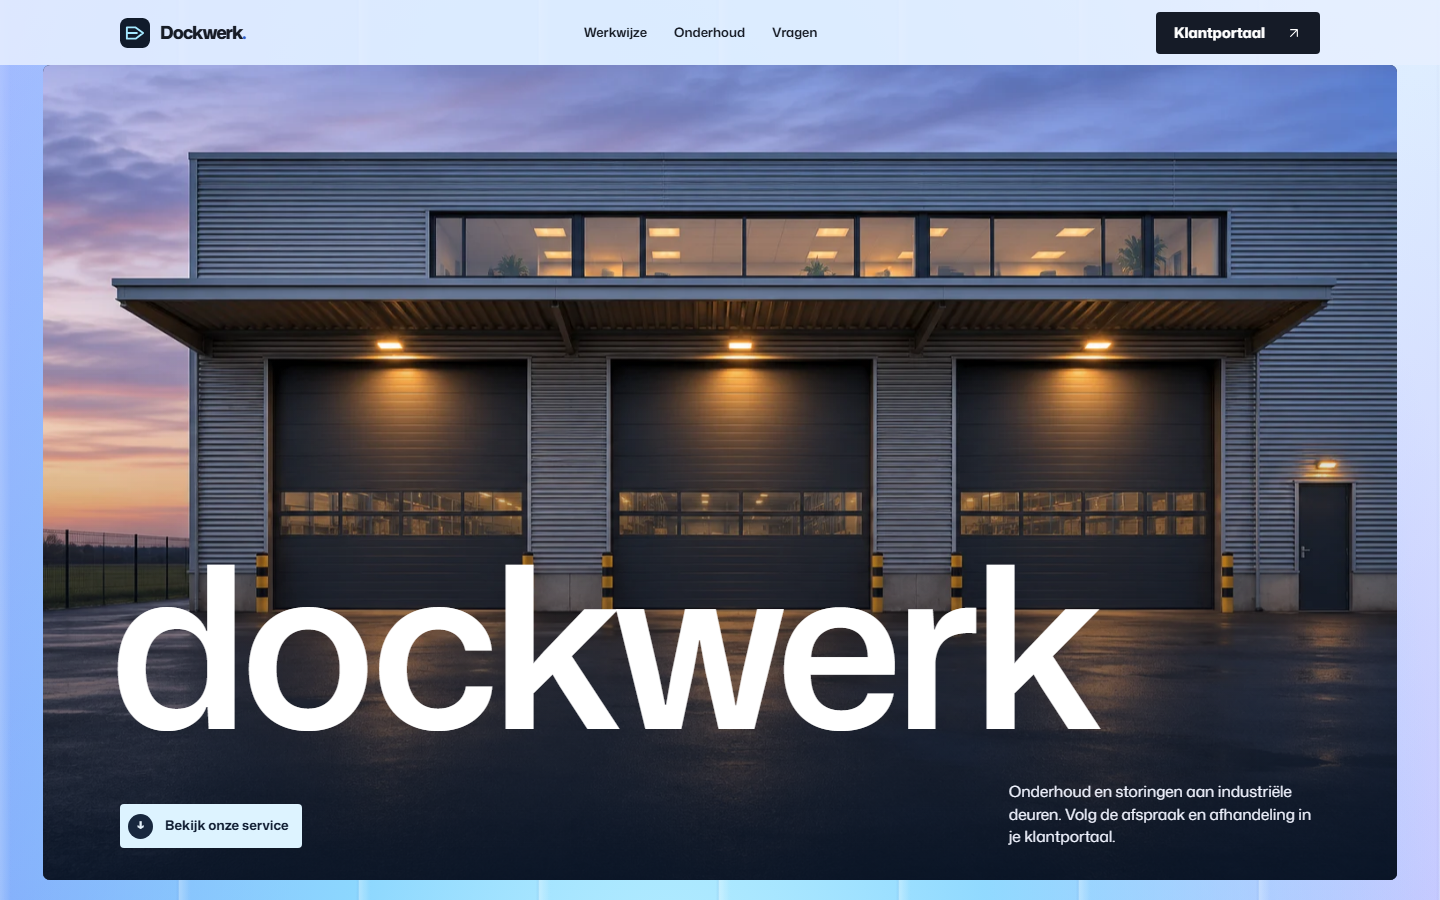
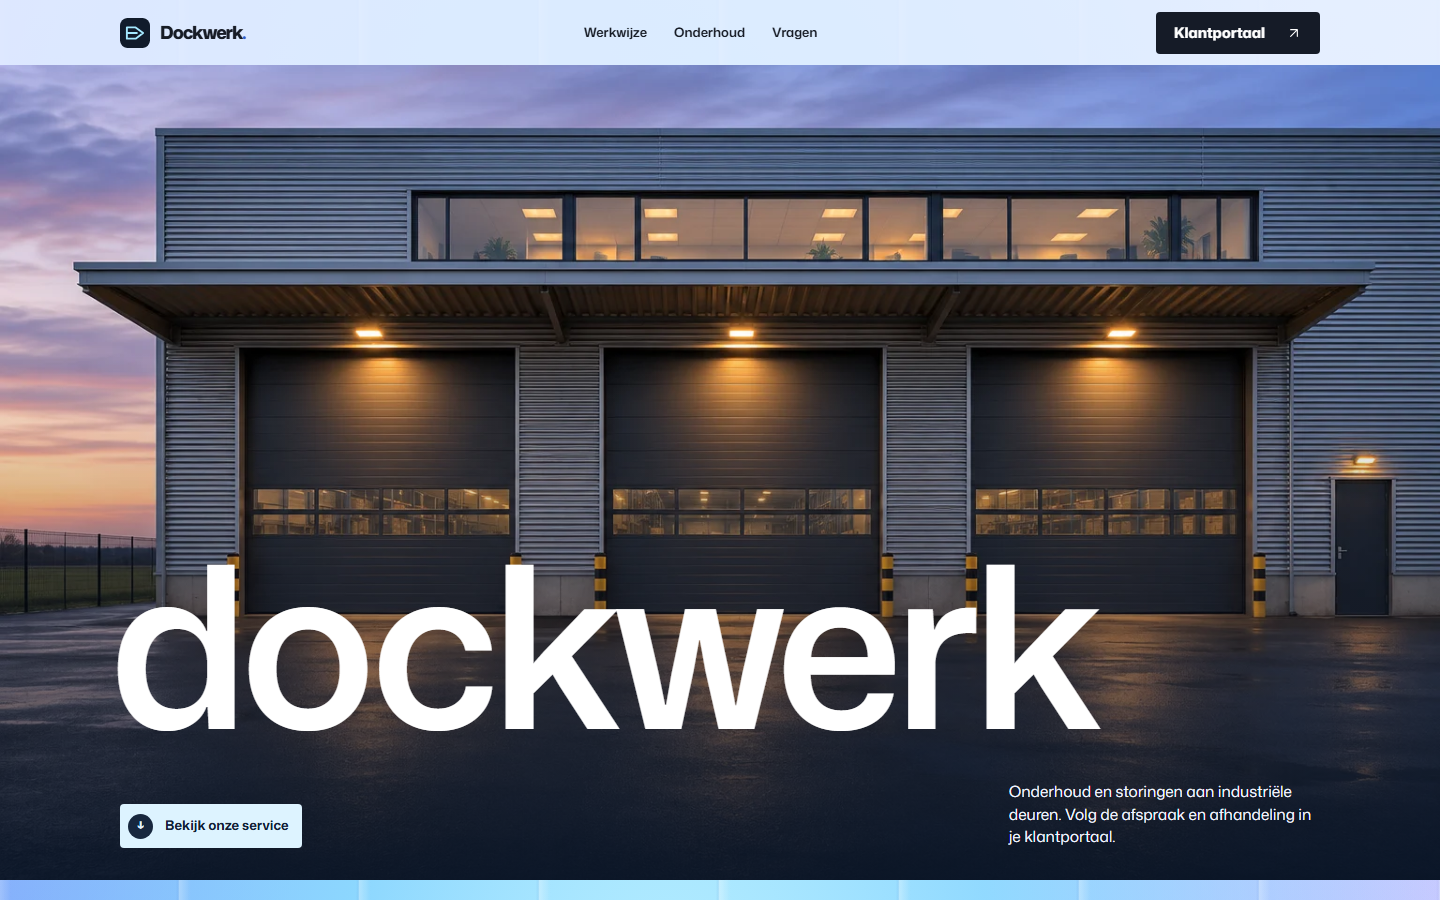
Extend the homepage cover edge to edge and add a lighting intro

diff --git a/tests/browser/portal.spec.js b/tests/browser/portal.spec.js
@@ -21,13 +21,16 @@ test('de homepage is bruikbaar met toetsenbord en op mobiel', async ({ page }) =
     await expect(page.locator('html')).not.toHaveClass(/lenis/);
     await page.evaluate(() => document.fonts.ready);
     expect(await page.evaluate(() => document.fonts.check('700 20px "Mona Sans"'))).toBe(true);
-    expect(await page.locator('.hero-photo').evaluate(image => image.complete && image.naturalWidth > 0)).toBe(true);
+    const cover = page.locator('.hero-photo');
+    expect(await cover.evaluate(image => image.complete && image.naturalWidth > 0)).toBe(true);
+    expect(await cover.boundingBox()).toMatchObject({ x: 0, width: 1440 });
     await page.locator('.service-pair').first().scrollIntoViewIfNeeded();
     await expect.poll(() => page.locator('.service-photo').first().evaluate(image => image.complete && image.naturalWidth > 0)).toBe(true);
     expect((await new AxeBuilder({ page }).withTags(['wcag2a', 'wcag2aa', 'wcag21aa']).analyze()).violations).toEqual([]);
     for (const width of [1024, 768, 390, 320, 390]) {
         await page.setViewportSize({ width, height: 844 });
         await expect.poll(() => page.evaluate(() => document.documentElement.scrollWidth)).toBe(width);
+        expect(await cover.boundingBox()).toMatchObject({ x: 0, width });
     }
     await page.locator('.mobile-menu summary').focus();
     await page.keyboard.press('Enter');
@@ -64,6 +67,13 @@ test('de homepage is bruikbaar met toetsenbord en op mobiel', async ({ page }) =
     await expect(page.getByText('Open de melding vanuit het overzicht.', { exact: false })).toBeVisible();
     await page.emulateMedia({ reducedMotion: 'reduce' });
     await expect.poll(coverShift).toBe(0);
+
+    await page.goto('/?intro=licht');
+    await expect(page.locator('.cover')).toHaveClass(/cover-lit/);
+    await expect(page.locator('.cover-shutter')).toHaveCount(0);
+    await expect(cover).toHaveCSS('filter', 'none');
+    expect(await cover.boundingBox()).toMatchObject({ x: 0, width: 1440 });
+    await expect(page.getByRole('link', { name: 'Bekijk onze service' })).toHaveAttribute('href', '#onderhoud');
 });
 
 test('van melding naar afspraak en afronding met gescheiden bedrijven', async ({ browser }) => {

diff --git a/resources/css/home.css b/resources/css/home.css
@@ -14,7 +14,7 @@
 .mode-home .nav-cta, .studio-primary, .closing-button { border-radius: 4px; gap: 21px; min-height: 40px; }
 .mode-home .nav-cta, .studio-primary { background: #151b27; color: white; }
 .mode-home .nav-cta:hover, .studio-primary:hover { background: #283f62; }
-.cover { margin-inline: clamp(12px, 3vw, 56px); border-radius: 7px; min-height: clamp(570px, calc(100svh - 85px), 940px); position: relative; isolation: isolate; overflow: clip; display: grid; align-items: end; background: #192a3d; color: white; }
+.cover { min-height: clamp(570px, calc(100svh - 85px), 940px); position: relative; isolation: isolate; overflow: clip; display: grid; align-items: end; background: #192a3d; color: white; }
 .cover-picture, .cover-picture img, .cover::after { position: absolute; inset: 0; display: block; width: 100%; height: 100%; }
 .cover-picture { z-index: -2; }
 .cover-picture img { object-fit: cover; object-position: center 57%; }
@@ -39,6 +39,11 @@
 .cover-jump:hover { background: #fff; }
 .cover-jump:focus-visible { outline-color: #ddf3ff; }
 .cover-jump:hover span, .cover-jump:focus-visible span { transform: translateY(2px); }
+.cover-lit .cover-content { text-align: center; }
+.cover-lit h1 { margin-inline: 0; }
+.cover-lit .cover-meta { flex-direction: column-reverse; align-items: center; gap: 16px; }
+.cover-lit .cover-meta p { max-width: 47ch; text-wrap: balance; }
+.cover-lit::after { background: linear-gradient(180deg, #07192a40, transparent 40%, #0814266b 64%, #081426f0 100%); }
 .studio-label, .sheet-top { font-size: .73rem; font-weight: 680; color: var(--studio-muted); letter-spacing: .06em; text-transform: uppercase; }
 .service-section, .faq-section { padding-block: clamp(60px, 8vw, 119px); scroll-margin-top: 85px; }
 .service-intro, .faq-section { display: grid; grid-template-columns: 1fr 1.2fr; gap: 38px; align-items: start; }

diff --git a/resources/js/home-motion.js b/resources/js/home-motion.js
@@ -14,11 +14,23 @@ export function startHomeMotion() {
         const coverPicture = cover.querySelector('.cover-picture');
         const backdropGlow = document.querySelector('.glacier-glow');
 
-        gsap.timeline({ defaults: { ease: 'power3.out' } })
-            .fromTo(shutter, { yPercent: -15, y: 0 }, { yPercent: -100, y: 0, ease: 'power2.inOut', duration: 1.18, clearProps: 'transform' }, 0)
-            .from(photograph, { scale: 1.11, duration: 1.55 }, 0)
+        const intro = gsap.timeline({ defaults: { ease: 'power3.out' } });
+
+        if (shutter) {
+            intro
+                .fromTo(shutter, { yPercent: -15, y: 0 }, { yPercent: -100, y: 0, ease: 'power2.inOut', duration: 1.18, clearProps: 'transform' }, 0)
+                .from(photograph, { scale: 1.11, duration: 1.55 }, 0);
+        } else {
+            intro.fromTo(photograph,
+                { scale: 1.045, filter: 'brightness(0.48) saturate(0.72)' },
+                { scale: 1, filter: 'brightness(1) saturate(1)', duration: 1.65, ease: 'power2.inOut', clearProps: 'filter' },
+                0,
+            );
+        }
+
+        intro
             .from(wordmark, { y: 38, opacity: 0.92, duration: 1 }, 0.17)
-            .from('.cover-meta', { y: 17, duration: 0.8 }, 0.27);
+            .from(cover.querySelector('.cover-meta'), { y: 17, duration: 0.8 }, 0.27);
 
         gsap.to(coverPicture, {
             yPercent: 13,

diff --git a/resources/views/home.blade.php b/resources/views/home.blade.php
@@ -1,12 +1,17 @@
 <x-layout title="Onderhoud aan industriële deuren" mode="home">
-    @php($portalUrl = auth()->check() ? route('portal.index') : route('login'))
+    @php
+        $portalUrl = auth()->check() ? route('portal.index') : route('login');
+        $lightIntro = request()->query('intro') === 'licht';
+    @endphp
 
-    <section class="cover" aria-labelledby="hero-title">
+    <section @class(['cover', 'cover-lit' => $lightIntro]) aria-labelledby="hero-title">
         <picture class="cover-picture">
             <source media="(max-width: 620px)" srcset="{{ asset('images/dockwerk-avond-mobiel.webp') }}">
             <img class="hero-photo" src="{{ asset('images/dockwerk-avond.webp') }}" alt="" fetchpriority="high" width="1536" height="1024">
         </picture>
-        <div class="cover-shutter" aria-hidden="true"></div>
+        @unless ($lightIntro)
+            <div class="cover-shutter" aria-hidden="true"></div>
+        @endunless
         <div class="shell cover-content">
             <h1 id="hero-title">dockwerk<span class="sr-only"> · Service voor bedrijfsdeuren</span></h1>
             <div class="cover-meta">

diff --git a/DESIGN.md b/DESIGN.md
@@ -4,12 +4,14 @@ De homepage is opgebouwd rond een brede avondfoto van een laadperron. Het woordm
 
 ## Glacier
 
-Glacier is de doorlopende achtergrond van de homepage, het inlogscherm, het klantportaal en de werkplaats. Drie radiale kleurvelden maken een cyaan kern, kobaltblauw links en violet rechts. Een tweede laag van herhaalde lichtnaden verwijst naar de verticale banen in Ahmads referentie. De openingsfoto heeft een smalle marge die Glacier zichtbaar maakt. Formulieren en tabellen staan op rustigere oppervlakken, zodat ze goed leesbaar blijven.
+Glacier is de doorlopende achtergrond van de homepage, het inlogscherm, het klantportaal en de werkplaats. Drie radiale kleurvelden maken een cyaan kern, kobaltblauw links en violet rechts. Een tweede laag van herhaalde lichtnaden verwijst naar de verticale banen in Ahmads referentie. De openingsfoto loopt van schermrand tot schermrand. Daaronder komt Glacier in beeld. Formulieren en tabellen staan op rustigere oppervlakken, zodat ze goed leesbaar blijven.
 
 ## Beweging
 
 Vlak na het openen schuift een stalen roldeur omhoog en komt de hele avondfoto in beeld. De roldeur bestaat uit CSS en beweegt mee met de bestaande GSAP-tijdlijn. De foto, tekst en serviceknop zijn direct beschikbaar. Bij scrollen verschuift de foto binnen het kader. In de rest van de homepage schuiven specifieke inhoudsblokken licht in beeld en beweegt de gloed van Glacier mee. Lenis wordt alleen geladen voor precies aanwijzen. Op een aanraakscherm blijft de scroll native. Bij een voorkeur voor minder beweging blijven de animatiebundels bij de eerste weergave buiten de download. Als de voorkeur tijdens het bezoek verandert, past de site de JavaScript-animaties en scrollverzachting aan.
 
 De FAQ en het mobiele menu gebruiken native HTML-disclosures. De foto van het laadperron heeft een afzonderlijke mobiele uitsnede. Mona Sans en de drie gegenereerde projectfoto’s staan lokaal in de app.
+
+Via [de lichtvariant](http://127.0.0.1:8765/?intro=licht) krijgt dezelfde foto een overgang van gedempt naar helder licht en staat het woordmerk gecentreerd boven de serviceknop. Beide openingen gebruiken hetzelfde beeldbestand per schermformaat. [Schermafbeelding van de lichtvariant](docs/screenshots/homepage-licht.png)
 
 [Referenties en werkwijze](docs/REFERENTIES.md) · [Browservideo van de eerdere achtergrond](docs/screenshots/dockwerk-motion.mp4)

diff --git a/docs/VOORTGANG.md b/docs/VOORTGANG.md
@@ -45,3 +45,9 @@ De Vite-build, 9 PHP-tests (41 assertions), Pint en 2 Chromium-tests slaagden. O
 Ahmad vroeg om de Glacier-versie te bewaren en een opvallendere variant te maken. De tag `glacier-v1` wijst naar de bewaarde versie. Op `codex/dockwerk-motion` opent een geanimeerde stalen roldeur over de avondfoto en is de serviceknop ijsblauw.
 
 `npm run build`, `php artisan test --compact` (9 tests, 41 assertions), Pint en `npm run test:browser` (2 tests) slaagden. De roldeur is in Chromium op desktop en in mobiele aanraakemulatie gecontroleerd. De foto en serviceknop werken ook met minder beweging en met JavaScript uitgeschakeld.
+
+## Schermbrede foto en tweede opening
+
+Op verzoek van Ahmad loopt de openingsfoto in beide varianten tot de linker- en rechterrand. De homepage opent standaard met de roldeur. De [lichtvariant](http://127.0.0.1:8765/?intro=licht) heeft een gecentreerde compositie en laat het licht op de foto geleidelijk opkomen.
+
+De build, Pint, 9 PHP-tests en 2 Chromium-tests slaagden. De browsertest controleert de fotobreedte van 320 tot 1440 px en de lichtvariant met minder beweging. Beide openingen zijn apart in Chromium gecontroleerd. Op 320 px had de lichtvariant geen horizontale overflow of overtredingen van de geselecteerde axe-regels.
